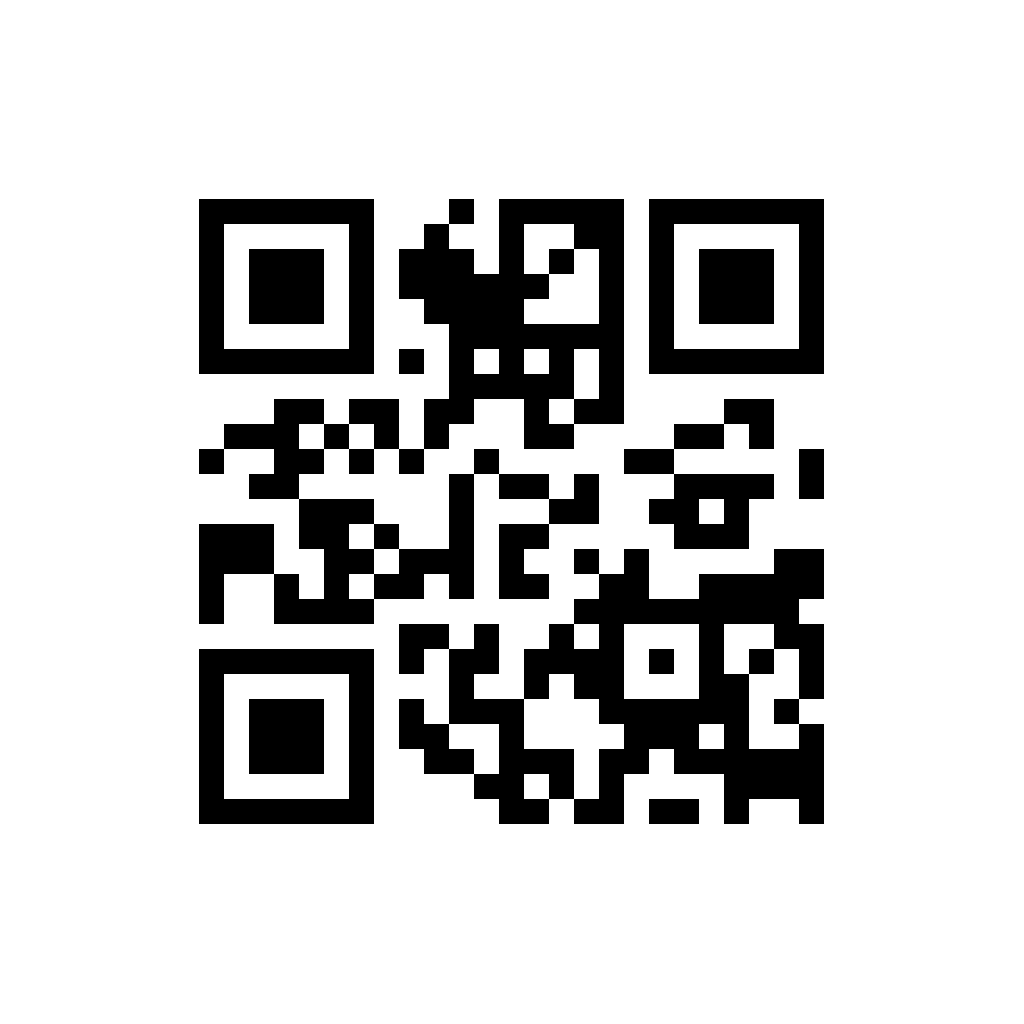
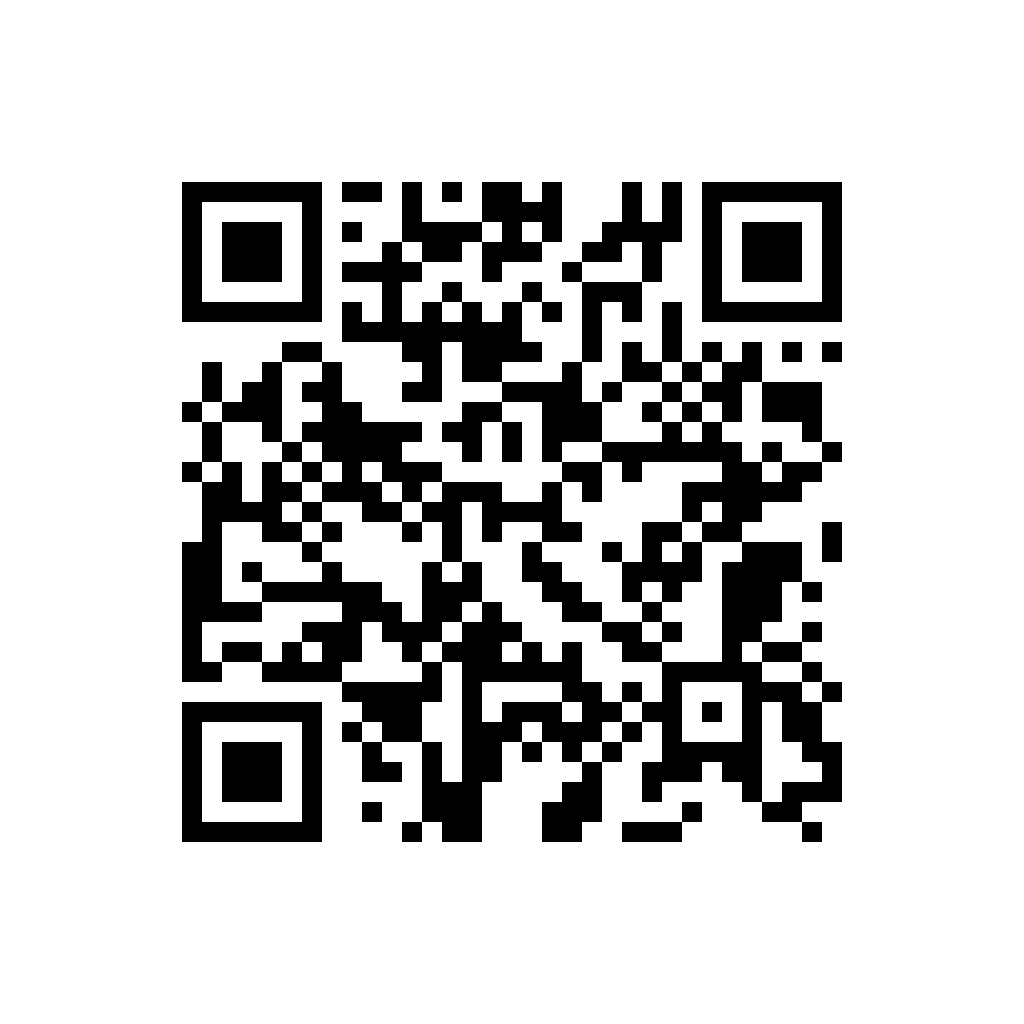
Point QR at live URL; Netlify forms

Changed region(s): [[0.1562, 0.1562, 0.8438, 0.8438]]

diff --git a/index.html b/index.html
@@ -199,8 +199,8 @@
       </div>
 
       <div class="qr-panel">
[1 lines of base64/hex data omitted]
-        <p class="qr-caption">Scan only if you’re serious. Lands here — not a random pitch deck.</p>
+        <img src="qr.png" alt="Invite-only QR code — Learn AI, Build Your Future" width="1024" height="1024" />
+        <p class="qr-caption">Scan only if you’re serious. Opens this invite page — not a pitch deck.</p>
       </div>
     </div>
 
@@ -289,9 +289,11 @@
       <p class="body-copy" style="margin-bottom:22px">
         Tell the truth. Short answers win. If it’s a fit, you’ll hear back.
       </p>
-      <form class="apply" name="invite" method="POST" action="https://formsubmit.co/hello@imaginhq.com">
-        <input type="hidden" name="_subject" value="Invite request — Learn AI Exit" />
-        <input type="hidden" name="_captcha" value="false" />
+      <form class="apply" name="invite" method="POST" data-netlify="true" netlify-honeypot="bot-field" action="/">
+        <input type="hidden" name="form-name" value="invite" />
+        <p style="display:none"><label>Don’t fill: <input name="bot-field" /></label></p>
+        
+        
 
         <label for="name">Name</label>
         <input id="name" name="name" required placeholder="What should I call you?" />
